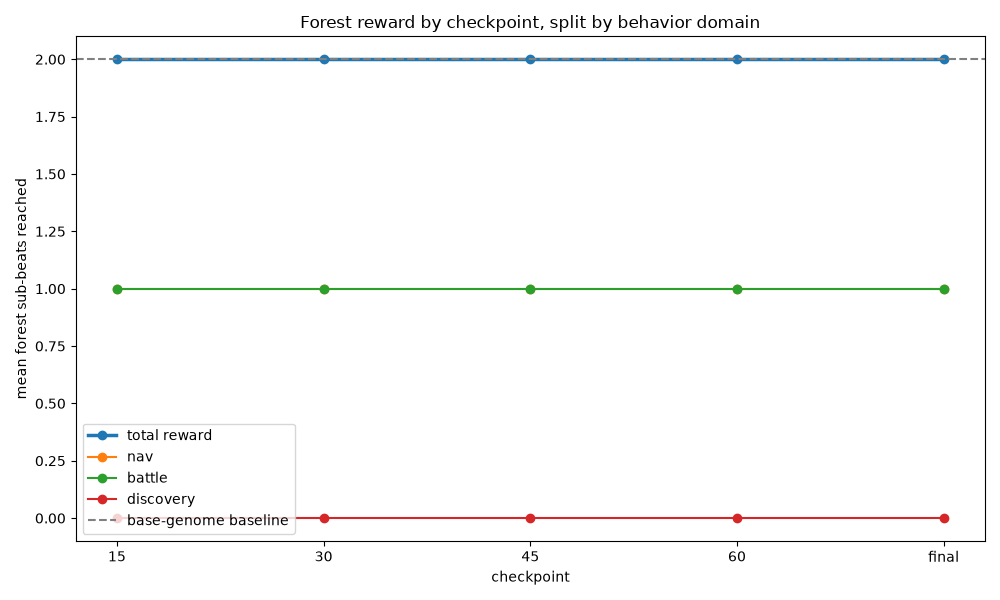
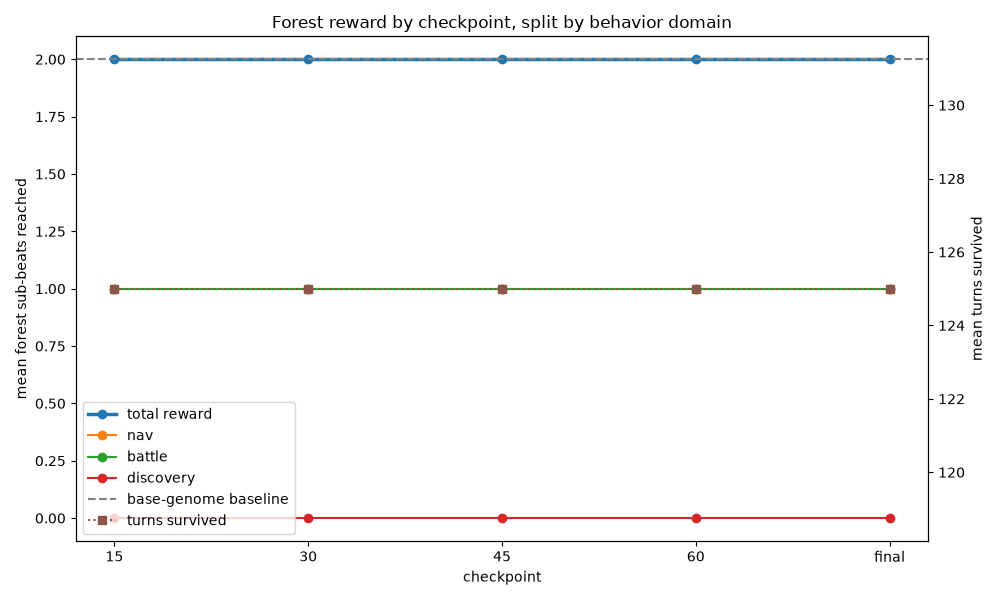
docs: turns-survived column rerun — flatness isolated to trainer-battle route + memorized proposals

diff --git a/docs/experiment-findings.md b/docs/experiment-findings.md
@@ -176,14 +176,24 @@ generalization, same caveat as the smoke.
 
 ```
 forest benchmark: proposer genome per checkpoint vs base genome (baseline reward 2.00)
-  checkpoint   reward    nav  battle  discov  crossed
-    baseline     2.00   1.00    1.00    0.00     0.00
-          15     2.00   1.00    1.00    0.00     0.00
-          30     2.00   1.00    1.00    0.00     0.00
-          45     2.00   1.00    1.00    0.00     0.00
-          60     2.00   1.00    1.00    0.00     0.00
-       final     2.00   1.00    1.00    0.00     0.00
+  checkpoint   reward    nav  battle  discov  crossed   turns
+    baseline     2.00   1.00    1.00    0.00     0.00     125
+          15     2.00   1.00    1.00    0.00     0.00     125
+          30     2.00   1.00    1.00    0.00     0.00     125
+          45     2.00   1.00    1.00    0.00     0.00     125
+          60     2.00   1.00    1.00    0.00     0.00     125
+       final     2.00   1.00    1.00    0.00     0.00     125
 ```
+
+**Turns column** (added after the first gradient run, rerun same adapter): mean turns survived is now
+reported per checkpoint — the fine-grained survival metric the beat flags miss. The rerun pins the
+remaining flatness precisely: every checkpoint's proposed genome produces an IDENTICAL 125-turn run
+(same as base genome). Two causes visible in the run log: (a) the only battle on the lv6 canonical
+route is the catcher TRAINER battle — fleeing is impossible and the lv6 lead carries no potions, so
+`hp_run_threshold`/`hp_heal_threshold` cannot express there; (b) the 11-pair adapter memorizes one
+target genome, so checkpoints do not propose differently. Separating checkpoints needs a larger,
+more diverse corpus (multiple targets per situation) and/or a benchmark state where flee/heal
+levers can fire (wild-encounter pressure with potions in the bag).
 
 **What this does and doesn't show.** The harvest sweeps *do* have real gradient this time — turns
 before ending the rollout vary 3-4x across genomes at both levels, and the lv13 sweep even shows a